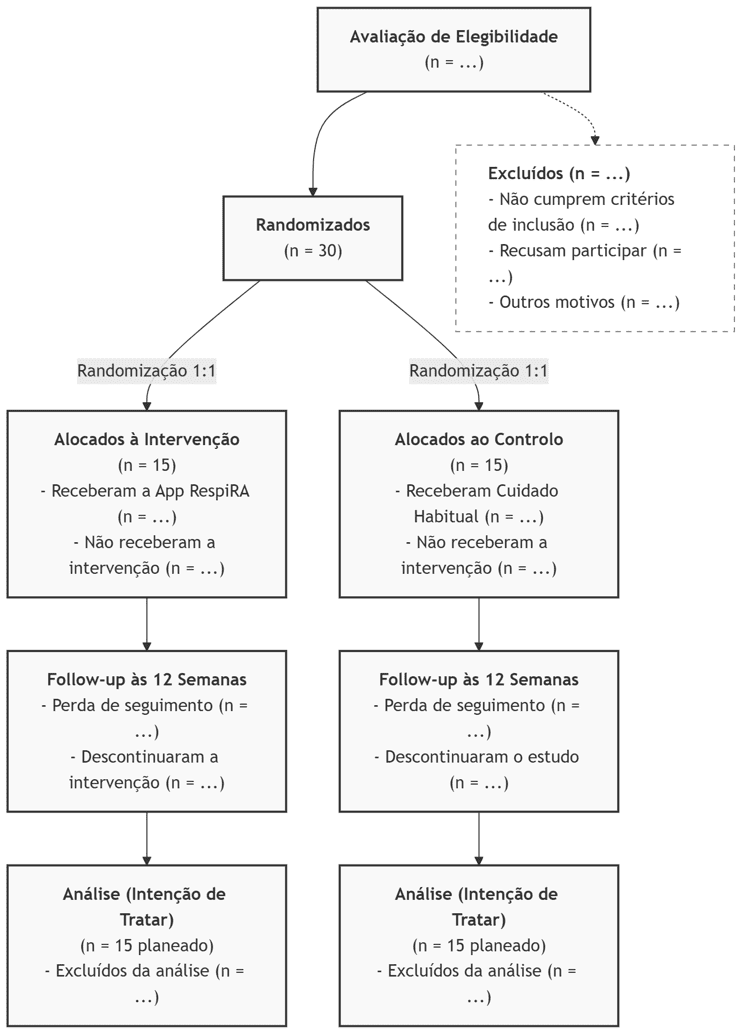
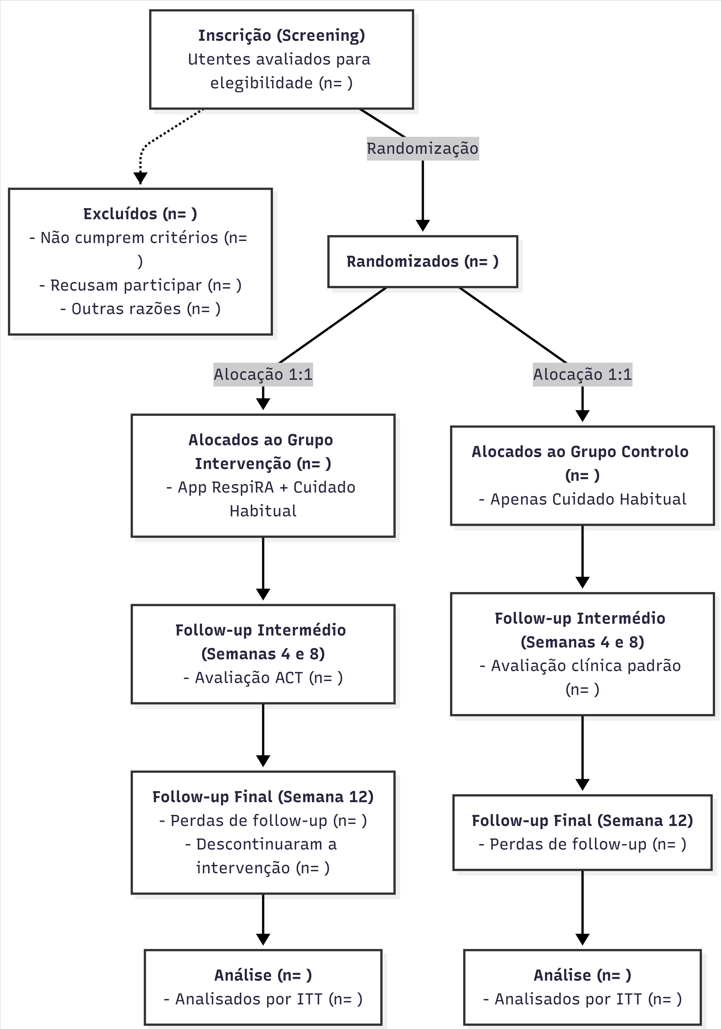
atualização fluxograma

diff --git a/docs/protocolo.html b/docs/protocolo.html
@@ -103,7 +103,7 @@ window.Quarto = {
 
 </head>
 
-<body class="nav-fixed fullcontent quarto-light">
+<body class="nav-fixed quarto-light">
 
 <div id="quarto-search-results"></div>
   <header id="quarto-header" class="headroom fixed-top">
@@ -155,7 +155,51 @@ window.Quarto = {
 <div id="quarto-content" class="quarto-container page-columns page-rows-contents page-layout-article page-navbar">
 <!-- sidebar -->
 <!-- margin-sidebar -->
-    
+    <div id="quarto-margin-sidebar" class="sidebar margin-sidebar">
+        <nav id="TOC" role="doc-toc" class="toc-active">
+    <h2 id="toc-title">Índice</h2>
+   
+  <ul>
+  <li><a href="#documentos" id="toc-documentos" class="nav-link active" data-scroll-target="#documentos">Documentos</a></li>
+  <li><a href="#introdução" id="toc-introdução" class="nav-link" data-scroll-target="#introdução">Introdução</a>
+  <ul class="collapse">
+  <li><a href="#racional" id="toc-racional" class="nav-link" data-scroll-target="#racional">Racional</a></li>
+  <li><a href="#objetivos" id="toc-objetivos" class="nav-link" data-scroll-target="#objetivos">Objetivos</a></li>
+  </ul></li>
+  <li><a href="#desenho-do-estudo" id="toc-desenho-do-estudo" class="nav-link" data-scroll-target="#desenho-do-estudo">Desenho do Estudo</a>
+  <ul class="collapse">
+  <li><a href="#calendarização" id="toc-calendarização" class="nav-link" data-scroll-target="#calendarização">Calendarização</a></li>
+  <li><a href="#fluxograma-consort" id="toc-fluxograma-consort" class="nav-link" data-scroll-target="#fluxograma-consort">Fluxograma CONSORT</a></li>
+  </ul></li>
+  <li><a href="#população-do-estudo" id="toc-população-do-estudo" class="nav-link" data-scroll-target="#população-do-estudo">População do Estudo</a>
+  <ul class="collapse">
+  <li><a href="#critérios-de-inclusão" id="toc-critérios-de-inclusão" class="nav-link" data-scroll-target="#critérios-de-inclusão">Critérios de Inclusão</a></li>
+  <li><a href="#critérios-de-exclusão" id="toc-critérios-de-exclusão" class="nav-link" data-scroll-target="#critérios-de-exclusão">Critérios de Exclusão</a></li>
+  <li><a href="#recrutamento" id="toc-recrutamento" class="nav-link" data-scroll-target="#recrutamento">Recrutamento</a></li>
+  <li><a href="#percurso-do-participante" id="toc-percurso-do-participante" class="nav-link" data-scroll-target="#percurso-do-participante">Percurso do Participante</a></li>
+  </ul></li>
+  <li><a href="#intervenções" id="toc-intervenções" class="nav-link" data-scroll-target="#intervenções">Intervenções</a>
+  <ul class="collapse">
+  <li><a href="#grupo-de-intervenção" id="toc-grupo-de-intervenção" class="nav-link" data-scroll-target="#grupo-de-intervenção">Grupo de Intervenção</a></li>
+  <li><a href="#grupo-controlo" id="toc-grupo-controlo" class="nav-link" data-scroll-target="#grupo-controlo">Grupo Controlo</a></li>
+  <li><a href="#critérios-de-descontinuação" id="toc-critérios-de-descontinuação" class="nav-link" data-scroll-target="#critérios-de-descontinuação">Critérios de Descontinuação</a></li>
+  </ul></li>
+  <li><a href="#avaliações-e-outcomes" id="toc-avaliações-e-outcomes" class="nav-link" data-scroll-target="#avaliações-e-outcomes">Avaliações e Outcomes</a>
+  <ul class="collapse">
+  <li><a href="#outcome-primário" id="toc-outcome-primário" class="nav-link" data-scroll-target="#outcome-primário">Outcome Primário</a></li>
+  <li><a href="#outcomes-secundários" id="toc-outcomes-secundários" class="nav-link" data-scroll-target="#outcomes-secundários">Outcomes Secundários</a></li>
+  </ul></li>
+  <li><a href="#análise-estatística" id="toc-análise-estatística" class="nav-link" data-scroll-target="#análise-estatística">Análise Estatística</a>
+  <ul class="collapse">
+  <li><a href="#princípios-gerais" id="toc-princípios-gerais" class="nav-link" data-scroll-target="#princípios-gerais">Princípios Gerais</a></li>
+  <li><a href="#métodos-de-análise" id="toc-métodos-de-análise" class="nav-link" data-scroll-target="#métodos-de-análise">Métodos de Análise</a></li>
+  <li><a href="#população-de-análise" id="toc-população-de-análise" class="nav-link" data-scroll-target="#população-de-análise">População de Análise</a></li>
+  </ul></li>
+  <li><a href="#ética-e-disseminação" id="toc-ética-e-disseminação" class="nav-link" data-scroll-target="#ética-e-disseminação">Ética e Disseminação</a></li>
+  <li><a href="#referências-bibliográficas" id="toc-referências-bibliográficas" class="nav-link" data-scroll-target="#referências-bibliográficas">Referências Bibliográficas</a></li>
+  </ul>
+</nav>
+    </div>
 <!-- main -->
 <main class="content" id="quarto-document-content">
 